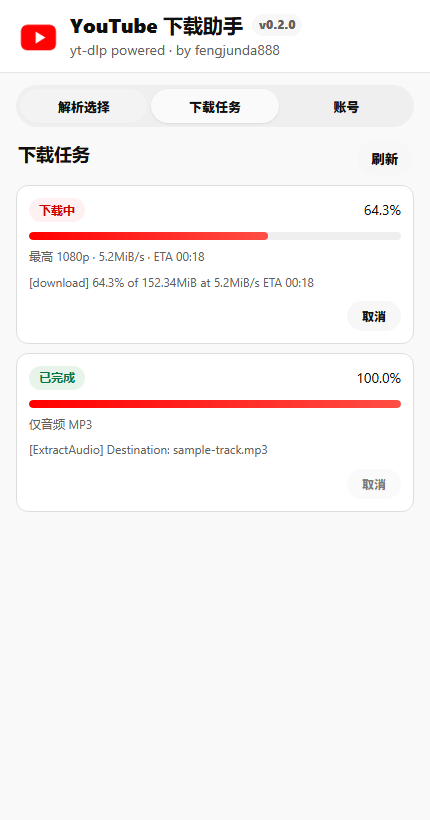
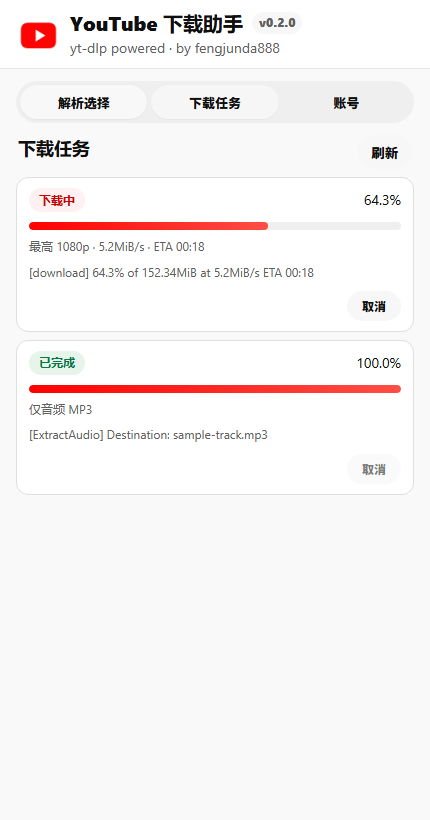
Refine popup as browser extension panel

diff --git a/extension/styles.css b/extension/styles.css
@@ -30,7 +30,7 @@ body {
 
 main {
   min-height: 100vh;
-  padding: 0 16px 16px;
+  padding: 0 16px 10px;
   background: var(--canvas);
 }
 
@@ -39,7 +39,7 @@ main {
   align-items: center;
   gap: 12px;
   margin: 0 -16px 12px;
-  padding: 14px 18px 12px;
+  padding: 12px 18px 10px;
   border-bottom: 1px solid var(--line);
   background: #fff;
 }
@@ -104,7 +104,7 @@ p {
   display: grid;
   grid-template-columns: repeat(3, 1fr);
   gap: 4px;
-  margin-bottom: 14px;
+  margin-bottom: 10px;
   padding: 4px;
   border-radius: 999px;
   background: #efefef;
@@ -112,8 +112,8 @@ p {
 
 button {
   width: 100%;
-  height: 44px;
-  margin-top: 14px;
+  height: 42px;
+  margin-top: 10px;
   border: 0;
   border-radius: 999px;
   background: var(--accent);
@@ -165,6 +165,13 @@ select:focus-visible {
   border-bottom: 2px solid currentColor;
   border-left: 2px solid currentColor;
   transform: rotate(-45deg) translateY(-2px);
+}
+
+#downloadSelected {
+  position: sticky;
+  bottom: 0;
+  z-index: 2;
+  box-shadow: 0 -8px 18px rgba(249, 249, 249, 0.95);
 }
 
 .tab {
@@ -229,6 +236,48 @@ button.small {
   display: block;
 }
 
+.nowPlaying {
+  display: flex;
+  align-items: center;
+  gap: 12px;
+  margin-bottom: 8px;
+  padding: 9px 12px;
+  border: 1px solid #dedede;
+  border-radius: 14px;
+  background: #fff;
+}
+
+.nowPlaying > div {
+  min-width: 0;
+}
+
+.nowPlaying strong {
+  display: block;
+  line-height: 1.25;
+}
+
+.nowIcon {
+  position: relative;
+  width: 38px;
+  height: 38px;
+  flex: 0 0 auto;
+  border-radius: 50%;
+  background: #fff1f1;
+}
+
+.nowIcon::after {
+  content: "";
+  position: absolute;
+  left: 52%;
+  top: 50%;
+  width: 0;
+  height: 0;
+  border-bottom: 7px solid transparent;
+  border-left: 11px solid var(--accent);
+  border-top: 7px solid transparent;
+  transform: translate(-45%, -50%);
+}
+
 .panel,
 .accountPanel,
 .task,
@@ -242,7 +291,8 @@ button.small {
 }
 
 .panel {
-  padding: 14px;
+  padding: 0;
+  overflow: hidden;
   box-shadow: none;
 }
 
@@ -250,6 +300,19 @@ button.small {
 .tasksHead,
 .accountList .sectionHead {
   padding: 0 2px;
+}
+
+.fieldRow {
+  padding: 11px 14px;
+  border-bottom: 1px solid var(--line);
+}
+
+.fieldRow:last-child {
+  border-bottom: 0;
+}
+
+.fieldRow:focus-within {
+  background: #fff;
 }
 
 label {
@@ -279,14 +342,14 @@ select:hover {
 }
 
 textarea {
-  min-height: 72px;
+  min-height: 62px;
   resize: vertical;
   padding: 12px;
 }
 
 input,
 select {
-  height: 42px;
+  height: 40px;
   padding: 0 12px;
 }
 
@@ -306,8 +369,8 @@ select + label {
 
 #status {
   min-height: 0;
-  margin-top: 12px;
-  padding: 10px 12px;
+  margin-top: 10px;
+  padding: 9px 12px;
   border: 1px solid #d8d8d8;
   border-radius: 10px;
   background: var(--soft);
@@ -361,7 +424,7 @@ select + label {
 .tasks,
 .accountPanel,
 .accountList {
-  margin-top: 14px;
+  margin-top: 12px;
 }
 
 .sectionHead,
@@ -395,8 +458,8 @@ select + label {
 .tasksList,
 .compactList {
   display: grid;
-  gap: 9px;
-  margin-top: 10px;
+  gap: 8px;
+  margin-top: 8px;
 }
 
 .empty {
@@ -410,7 +473,7 @@ select + label {
 .videoItem,
 .accountCard,
 .compactItem {
-  padding: 12px;
+  padding: 10px 12px;
 }
 
 .videoItem {

diff --git a/extension/popup.html b/extension/popup.html
@@ -26,21 +26,35 @@
       </nav>
 
       <section id="resolveView" class="view active">
+        <section class="nowPlaying" aria-label="当前页面">
+          <span class="nowIcon" aria-hidden="true"></span>
+          <div>
+            <strong>当前 YouTube 页面</strong>
+            <p>解析当前视频、合集或粘贴的链接</p>
+          </div>
+        </section>
+
         <section class="panel">
-          <label for="url">YouTube 链接</label>
-          <textarea id="url" rows="3" spellcheck="false"></textarea>
+          <div class="fieldRow">
+            <label for="url">YouTube 链接</label>
+            <input id="url" type="text" spellcheck="false">
+          </div>
 
-          <label for="downloadDir">下载路径</label>
-          <input id="downloadDir" type="text" spellcheck="false">
+          <div class="fieldRow">
+            <label for="downloadDir">下载路径</label>
+            <input id="downloadDir" type="text" spellcheck="false">
+          </div>
 
-          <label for="quality">画质</label>
-          <select id="quality">
-            <option value="best-mp4">最佳单文件 MP4</option>
-            <option value="1080">最高 1080p</option>
-            <option value="720">最高 720p</option>
-            <option value="480">最高 480p</option>
-            <option value="audio">仅音频 MP3</option>
-          </select>
+          <div class="fieldRow">
+            <label for="quality">画质</label>
+            <select id="quality">
+              <option value="best-mp4">最佳单文件 MP4</option>
+              <option value="1080">最高 1080p</option>
+              <option value="720">最高 720p</option>
+              <option value="480">最高 480p</option>
+              <option value="audio">仅音频 MP3</option>
+            </select>
+          </div>
         </section>
 
         <button id="resolve" type="button">解析当前链接</button>